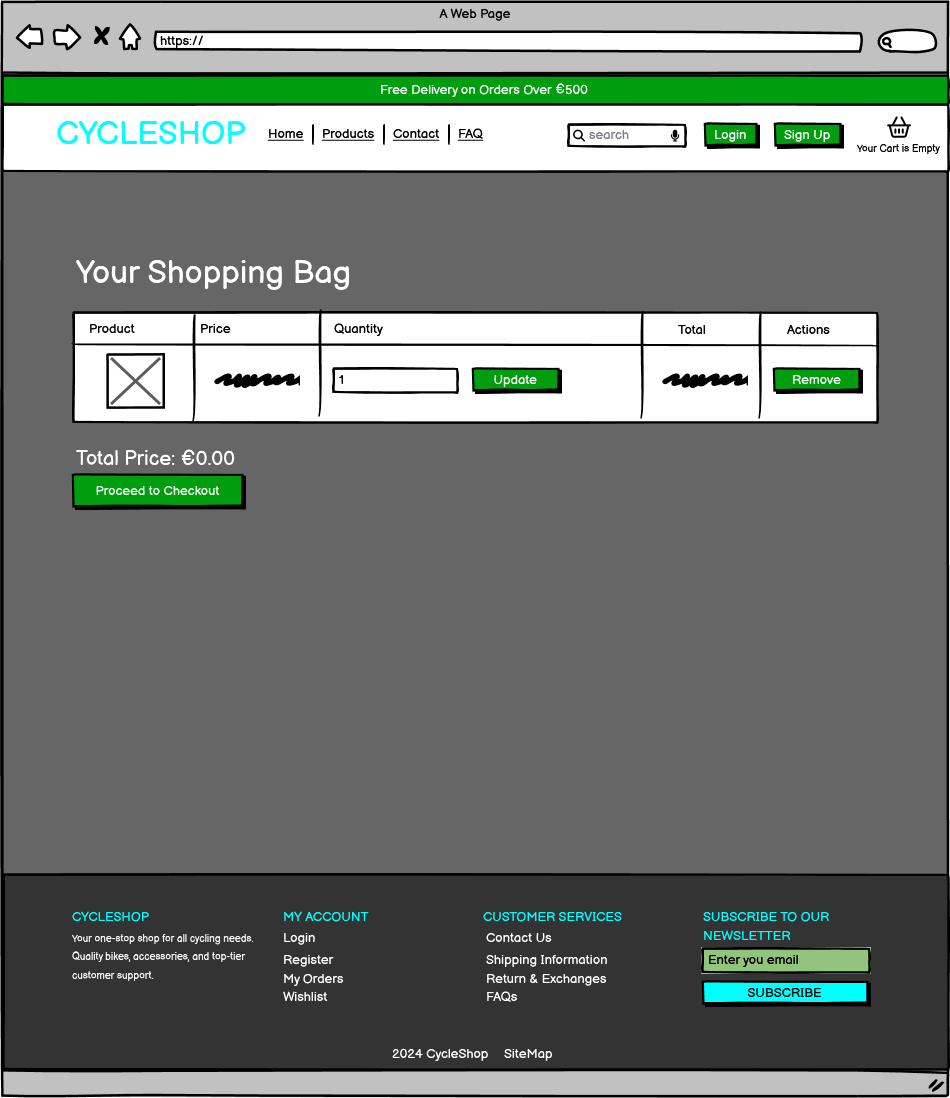
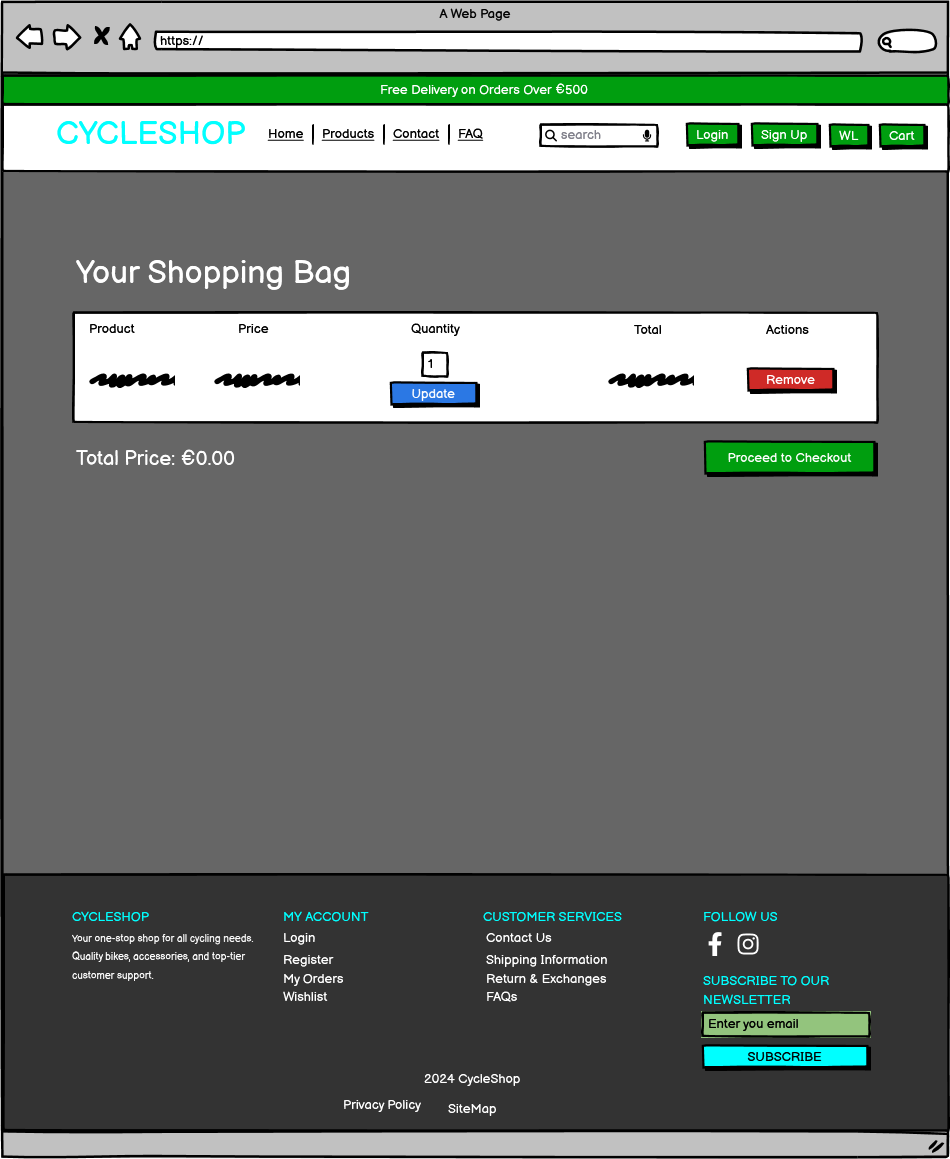
added mobile button product management, my order and css layout

Changed region(s): [[0.0611, 0.2168, 0.9463, 0.4645], [0.0, 0.7432, 1.0, 0.9909], [0.0, 0.0, 1.0, 0.1548]]

diff --git a/static/css/bag.css b/static/css/bag.css
@@ -9,14 +9,14 @@
 
 /* Quantity Box for Desktop, Laptop, and Tablet */
 .quantity-desktop {
-    display: block; /* Show by default */
+    display: block;
     width: 60px;
     height: 35px;
 }
 
 /* Quantity Box for Mobile */
 .quantity-mobile {
-    display: none; /* Hidden by default */
+    display: none;
     width: 50px;
     height: 30px;
     font-size: 0.8rem;
@@ -88,7 +88,7 @@
 /* Mobile-Specific Layout (Below 768px) */
 @media (max-width: 767px) {
     .table {
-        display: none; /* Hide the table layout for mobile */
+        display: none;
     }
 
     .bag-item-card {
@@ -100,7 +100,7 @@
         padding: 1.5rem;
         color: #000;
         margin-bottom: 1rem;
-        text-align: center; /* Aligns all elements to the center */
+        text-align: center;
     }
 
     .card-header {
@@ -118,18 +118,18 @@
         display: flex;
         flex-direction: column;
         gap: 1.5rem;
-        text-align: center; /* Center aligns row content */
+        text-align: center;
     }
 
     .btn-update,
     .btn-remove {
-        width: 100%; /* Full-width buttons for mobile */
-        margin-top: 10px; /* Add spacing above/below buttons */
+        width: 100%;
+        margin-top: 10px;
     }
 
     .quantity-mobile {
-        display: block; /* Show mobile quantity box */
-        margin: 0 auto; /* Center horizontally */
+        display: block;
+        margin: 0 auto;
         width: 50px;
         height: 30px;
         font-size: 0.8rem;
@@ -137,28 +137,28 @@
     }
 
     .quantity-desktop {
-        display: none; /* Hide desktop quantity box */
+        display: none;
     }
 }
 
 /* Tablet and Larger Screens (Above 768px) */
 @media (min-width: 768px) {
     .bag-item-card {
-        display: none; /* Hide card layout for larger screens */
+        display: none;
     }
 
     .table {
-        display: table; /* Show table layout for larger screens */
+        display: table;
     }
 
     .quantity-desktop {
-        display: block; /* Show desktop quantity box */
+        display: block;
         width: 60px;
         height: 35px;
         text-align: center;
     }
 
     .quantity-mobile {
-        display: none; /* Hide mobile quantity box */
+        display: none;
     }
 }

diff --git a/templates/includes/mobile-top-header.html b/templates/includes/mobile-top-header.html
@@ -73,6 +73,16 @@
                         <li class="nav-item">
                             <a class="btn-menu btn btn-outline-primary my-1" href="{% url 'view_profile' %}">Profile</a>
                         </li>
+                        <!-- My Orders Button -->
+                        <li class="nav-item">
+                            <a class="btn-menu btn btn-outline-primary my-1" href="{% url 'checkout:order_history' %}">My Orders</a>
+                        </li>
+                        <!-- Product Management (Admin Only) -->
+                        {% if user.is_superuser %}
+                        <li class="nav-item">
+                            <a class="btn-menu btn btn-outline-success my-1" href="{% url 'products:manage_products' %}">Product Management</a>
+                        </li>
+                        {% endif %}
                         <!-- Logout Button -->
                         <li class="nav-item">
                             <a class="btn-menu btn btn-outline-danger my-1" href="{% url 'account_logout' %}">Logout</a>

diff --git a/cycleshop/templates/profile/view_profile.html b/cycleshop/templates/profile/view_profile.html
@@ -49,7 +49,7 @@
         <p>Your wishlist is empty.</p>
     {% endif %}
 
-    <a href="{% url 'edit_profile' %}" class="btn btn-primary">Edit Profile</a>
+    <a href="{% url 'edit_profile' %}" class="btn">Edit Profile</a>
     <a href="{% url 'delete_profile' %}" class="btn-delete btn-danger">Delete Profile</a>
 </div>
 {% endblock %}

diff --git a/static/css/styles.css b/static/css/styles.css
@@ -717,7 +717,7 @@ span.btn.btn-outline-secondary.disabled.improved-contrast:focus {
 .btn-contact {
     display: inline;
     padding: 10px 20px;
-    background-color: #42858C;
+    background-color: #11666F;
     color: #F0F0F0;
     text-decoration: none;
     border-radius: 5px;

diff --git a/static/css/checkout.css b/static/css/checkout.css
@@ -68,7 +68,7 @@ h1, h2 {
 
 /* Button Styles */
 .btn-submit, .checkout-success-button {
-    background-color:  #5DA399;
+    background-color: #11666f;
     color: white;
     font-size: 16px;
     padding: 10px 20px;

diff --git a/README.md b/README.md
@@ -666,11 +666,14 @@ After implementing the above fixes, the checkout process:<br>
 | FAQ | <details><summary>Screenshot of result</summary>![Result](documentation/wireframes/faqs.png)</details>| :white_check_mark:|
 | Login | <details><summary>Screenshot of result</summary>![Result](documentation/wireframes/sign-in.png)</details>| :white_check_mark:|
 | Register | <details><summary>Screenshot of result</summary>![Result](documentation/wireframes/sign-up.png)</details>| :white_check_mark:|
-| My Orders | <details><summary>Screenshot of result</summary>![Result]()</details>| :white_check_mark:|
-| Wishlist | <details><summary>Screenshot of result</summary>![Result]()</details>| :white_check_mark:|
+| My Orders | <details><summary>Screenshot of result</summary>![Result](documentation/wireframes/order-history.png)</details>| :white_check_mark:|
+| Wishlist | <details><summary>Screenshot of result</summary>![Result](documentation/wireframes/my-wishlist.png)</details>| :white_check_mark:|
 | Shipping Information | <details><summary>Screenshot of result</summary>![Result](documentation/wireframes/shipping-information.png)</details>| :white_check_mark:|
 | Return & Exchanges | <details><summary>Screenshot of result</summary>![Result](documentation/wireframes/return-exchanges.png)</details>| :white_check_mark:|
 | Your Shopping Bag | <details><summary>Screenshot of result</summary>![Result](documentation/wireframes/your-shopping-bag.png)</details>| :white_check_mark:|
+| Checkout | <details><summary>Screenshot of result</summary>![Result](documentation/wireframes/Checkout.png)</details>| :white_check_mark:|
+| Checkout Success | <details><summary>Screenshot of result</summary>![Result](documentation/wireframes/checkout_success.html.png)</details>| :white_check_mark:|
+| View Profile | <details><summary>Screenshot of result</summary>![Result](documentation/wireframes/view-profile.png)</details>| :white_check_mark:|
 
 
 ## Mobile Wireframes
